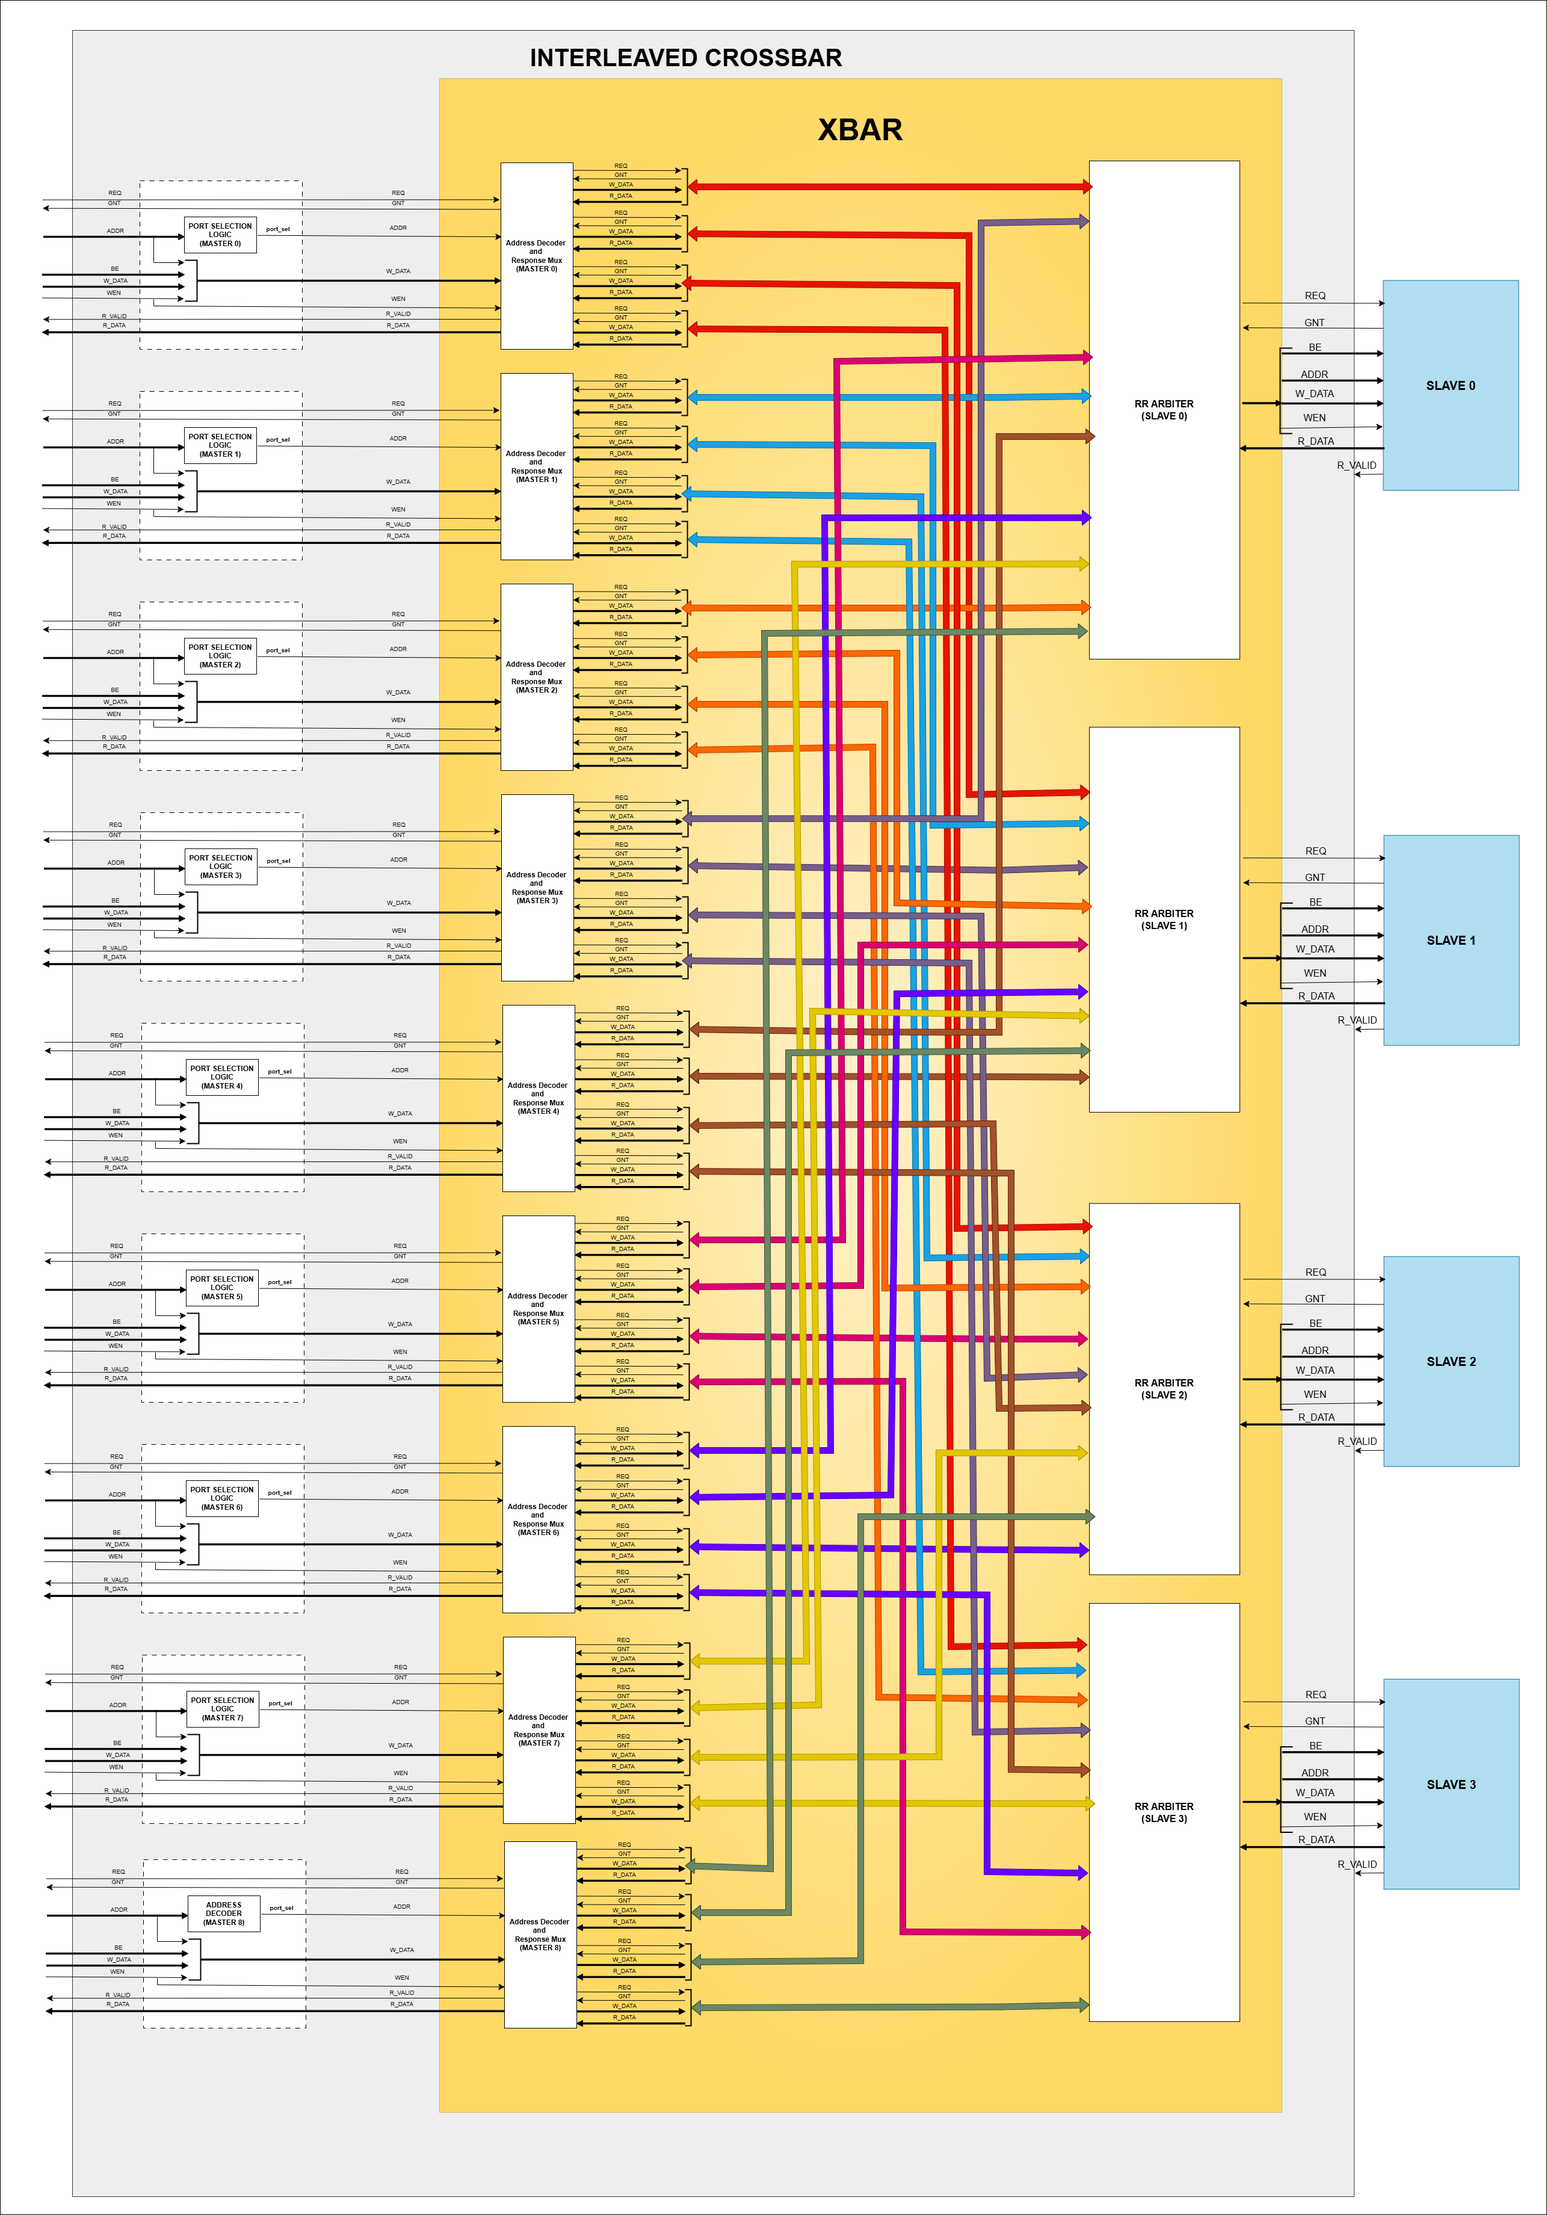
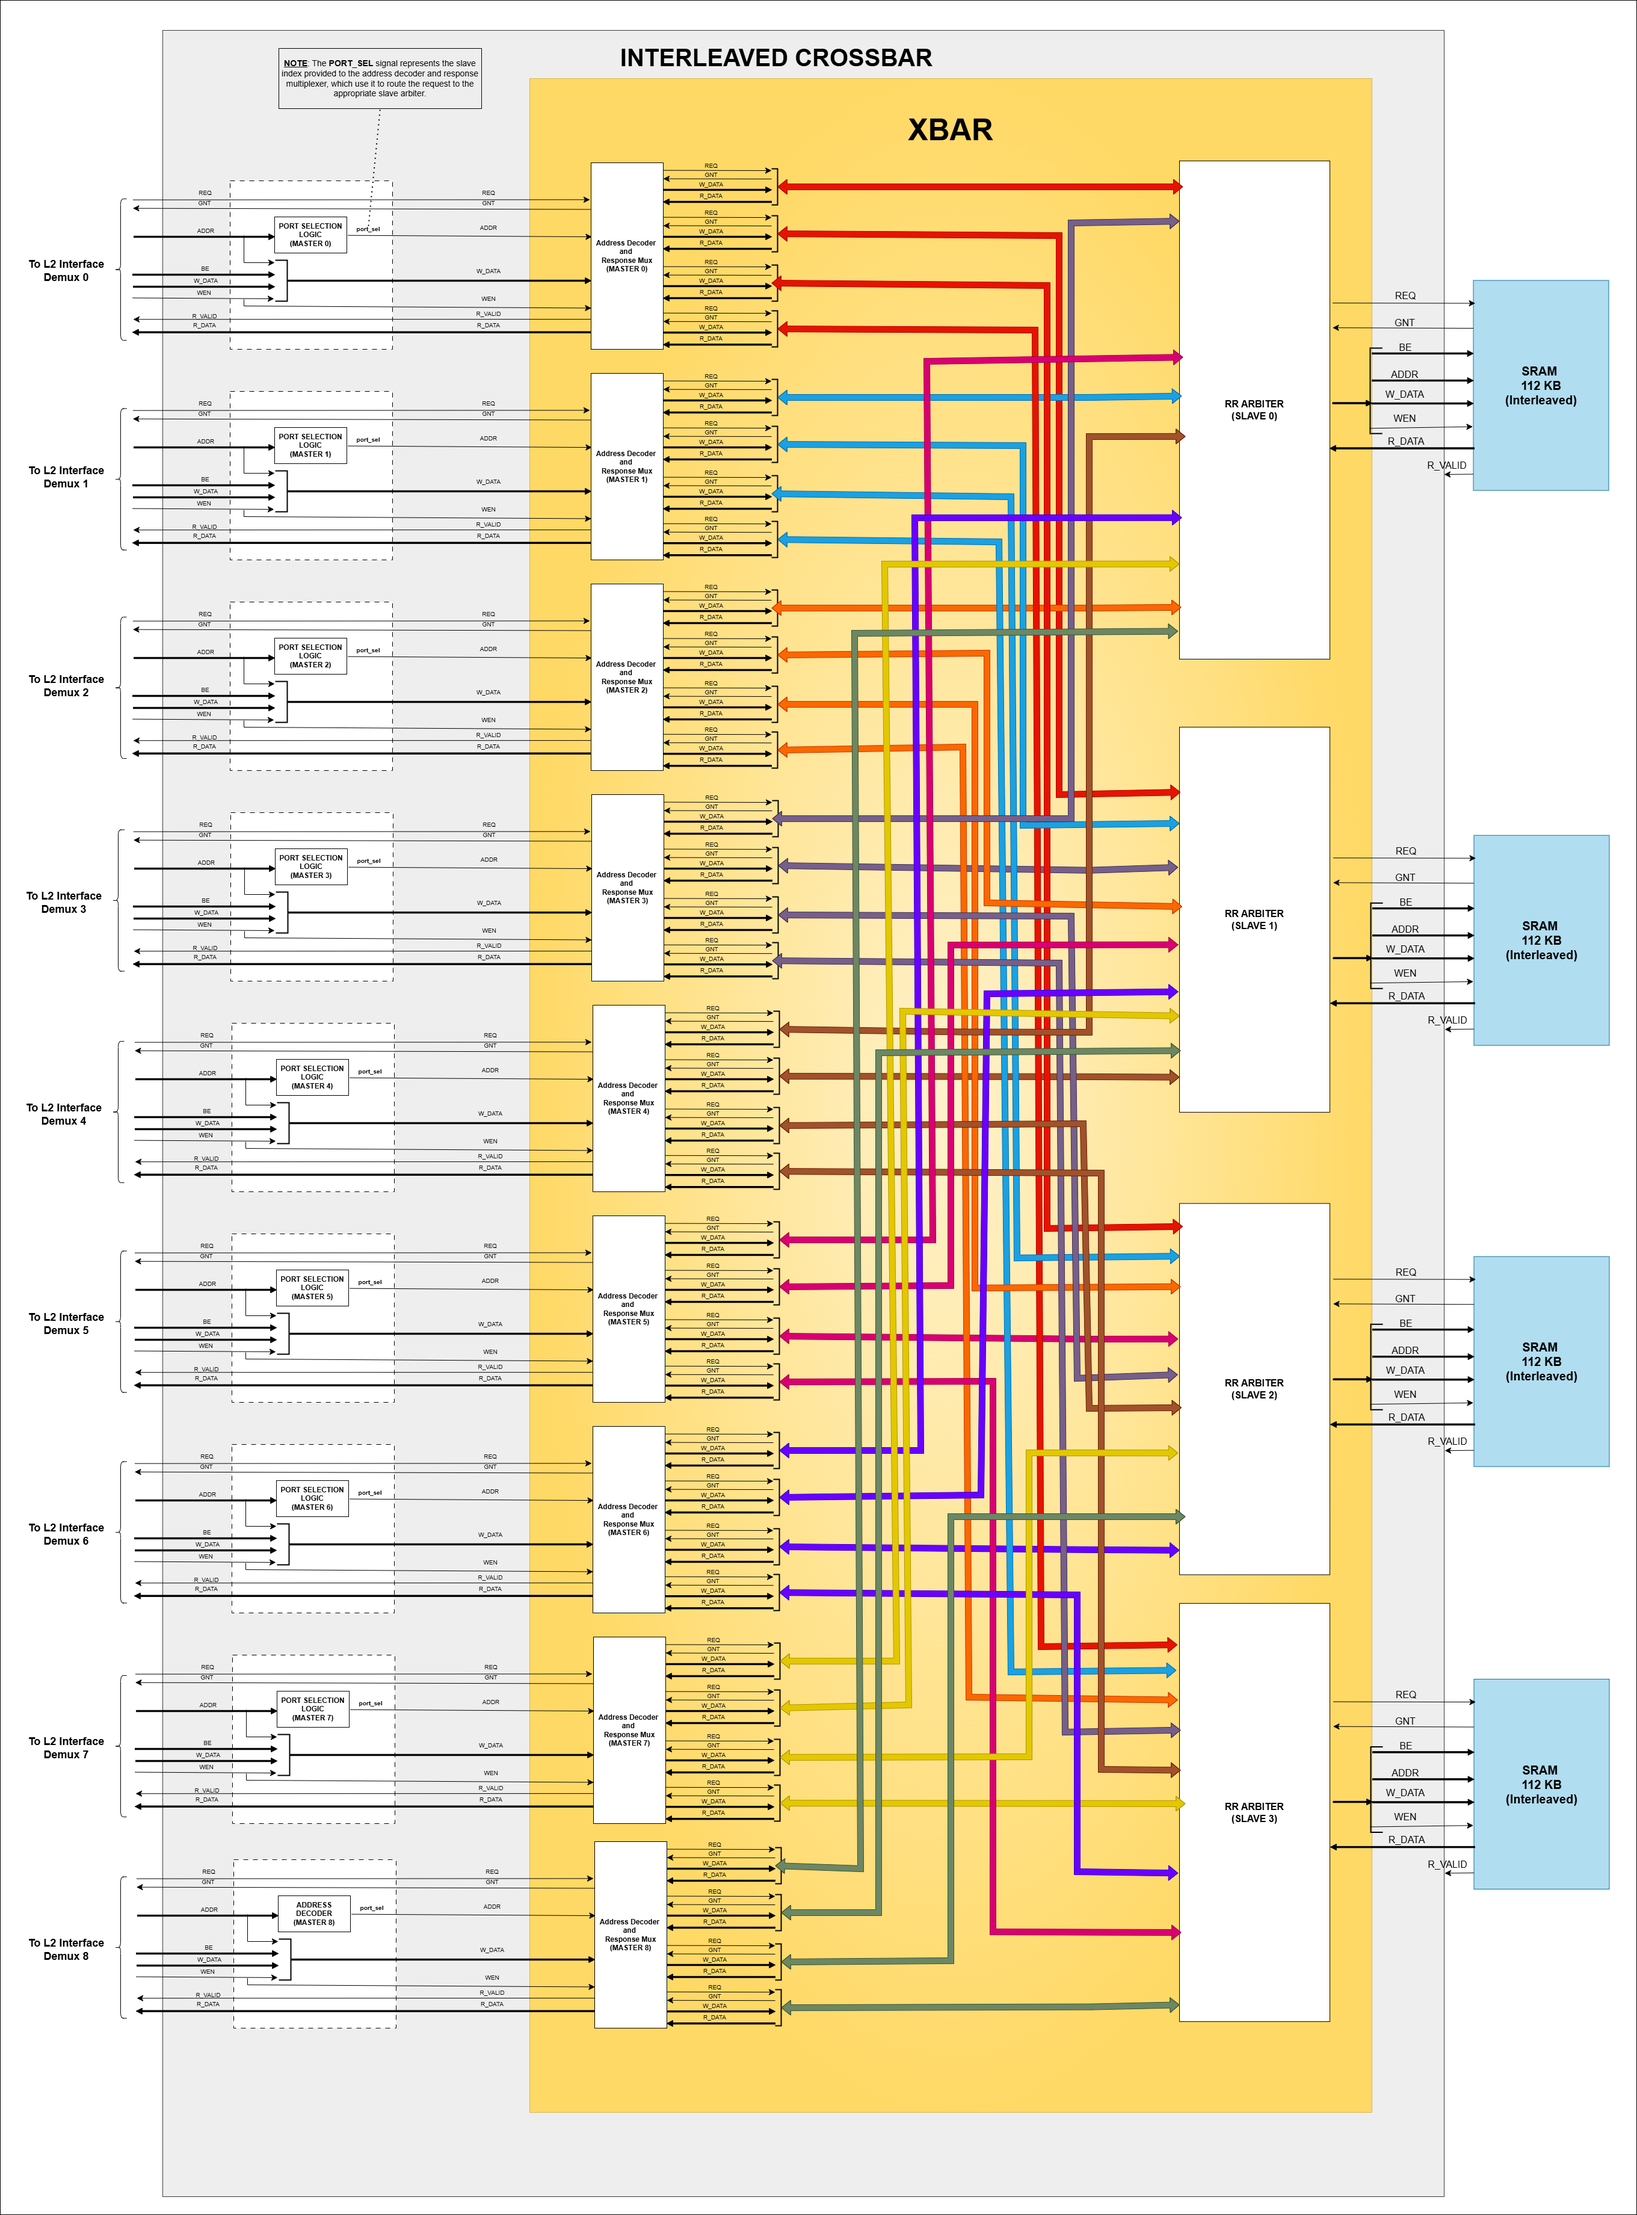
Added AXI bridge description and few other updates

diff --git a/docs/doc-src/tcdm_interconnect.rst b/docs/doc-src/tcdm_interconnect.rst
@@ -21,21 +21,25 @@ Features
    - Full Crossbar
    - Clos network
    - Butterfly
+- Supports a 32-bit address width, 32-bit data width, and 32-bit byte enable (BE) width
 
 
 For more details about TCDM interconnect refer `here <https://github.com/openhwgroup/core-v-mcu/blob/master/rtl/tcdm_interconnect/README.md>`_.
 
-Block Diagram
-~~~~~~~~~~~~~~
+Block Architecture
+~~~~~~~~~~~~~~~~~~
+The figure below shows a high-level block diagram of the TCDM Interconnect. The main components include the L2 Interconnect Demux, Contiguous Crossbar, Interleaved Crossbar, and AXI Bridge.
+The L2 Interconnect Demux identifies the target slave region and routes the request to either the appropriate Crossbar or the AXI Bridge. Internally, both the Crossbars and the AXI Bridge use 
+address decoders and arbiters to direct requests to the correct slave.
 
-.. figure:: ../images/TCDM_block_diagram.png
+.. figure:: ../images/TCDM_Interconnect_block_diagram.png
    :name: TCDM_Interconnect_block_diagram
    :align: center
    :alt: 
 
    **TCDM Interconnect block diagram**
 
-It contains 9 master ports and 9 slave ports.
+The TCDM interconnect supports 9 master ports and 9 slave ports
    
 **Masters:** 
 
@@ -56,9 +60,11 @@ Master-Slave Communication via TCDM Demux
 ^^^^^^^^^^^^^^^^^^^^^^^^^^^^^^^^^^^^^^^^^
 The uDMA SS, eFPGA, and Core Complex masters connect to the TCDM Demux, which is responsible for routing requests to the correct slave. The slaves fall into three categories based on address regions:
 
-- AXI Region : For APB peripherals (address range: 0x1A100000 to 0x1A300000)
-- Contiguous Slaves : Includes L2 private memory banks (core memory), Boot ROM, and eFPGA APBT1
-- Interleaved Slaves : Mapped to address range 0x1C010000 to 0x1C090000
+- AXI Region : Connects to APB peripheral interconnect to access APB Peripherals
+- Contiguous Slaves : Includes Non-interleaved memory regions such as L2 private memory banks (SRAM Bank0 - 32KB, SRAM Bank1 - 32KB), Boot ROM and eFPGA APB Target
+- Interleaved Slaves : Contains Interleaved memory banks, 4*112KB SRAM blocks
+
+Refer to `Memory Map <https://github.com/openhwgroup/core-v-mcu/blob/master/docs/doc-src/mmap.rst>`_ for address ranges of the each slave.
 
 The TCDM Demux integrates an address decoder that inspects each incoming request address and matches it against the configured address ranges for all slave regions. When the match is found, the module outputs a slave_id, which is used
 as a select line to route the request to the appropriate slave region — AXI, contiguous, or interleaved.
@@ -79,6 +85,7 @@ The contiguous crossbar consists of two primary components:
 2. Single Xbar Module 
 
 Each address decoder receives the ADDR from TCDM demux and checks it against the address ranges of contiguous slaves address. if a match is found, port_sel is generated and sent to the Xbar module's ADDR input.
+This port sel signal represents the slave index provided to the Xbar to route the request to the appropriate slave arbiter within the Xbar.
 Meanwhile the actual request (ADDR, WEN, WDATA and BE) is aggregated into single bundle and forwarded to Xbar's WDATA input.
 
 The Xbar is a multi-master and multi-slave module that includes:
@@ -103,6 +110,7 @@ Interaction with Interleaved Crossbar
 
 The interleaved crossbar follows a different mechanism for selecting the target slave. Unlike the contiguous crossbar, it does not use address decoders based on full address ranges.
 Instead, it uses specific address bits (often referred to as bank bits) to determine the destination memory bank. These bits are extracted from the request address and forwarded to the Xbar's ADDR input.
+These bits represents the slave index provided to the Xbar to route the request to the appropriate slave arbiter within the Xbar.
 Each master aggregates its request (ADDR, WEN, WDATA, and BE) into a bundled format and sends it to the crossbar's DATA input.
 
 Internally, the interleaved crossbar also contains a Xbar module that includes:
@@ -115,9 +123,24 @@ Once master is granted access, the aggregated request is disaggregated into its 
 
 When a slave detects the REQ signal, it immediately asserts the GNT signal in the same clock cycle to acknowledge the request. For read operations, the r_data and valid signals are updated in the next clock cycle.
 
+Interaction with AXI Bridge
+^^^^^^^^^^^^^^^^^^^^^^^^^^^
+
+The AXI bridge receives incoming requests and internally routes them to the lint_2_axi module. This module translates these requests into standard AXI-compatible transactions.
+The translated AXI transactions are then forwarded to an AXI crossbar (axi_xbar) for further decoding and routing.
+
+The AXI crossbar is designed to efficiently route transactions from multiple masters to multiple slaves. For each master, the crossbar includes the following dedicated components:
+- **Write Address Decoder**: Compares the write transaction address (AWADDR) against the address ranges of all connected slaves. Upon finding a match, it generates a selection signal for the corresponding slave and forwards the transaction to the AXI Demux; otherwise, the request is redirected to the error slave, which generates an error response.
+- **Read Address Decoder**: Functions similarly to the write decoder, but operates on read transaction addresses (ARADDR). If a valid slave match is found, the selection signal is generated and the request is passed to the AXI Demux; otherwise, the request is redirected to the error slave, which generates an error response
+- **AXI Demultiplexer (AXI Demux)**: Receives read/write transactions and routes them to one of several slaves based on the selection signals provided by the address decoders. It ensures that transactions are correctly distributed across the slaves.
+- **AXI Error Slave (axi_err_slv)**: Handles unmatched or invalid addresses. If no slave address matches the decoded address, the transaction is routed to the error slave, which generates an appropriate error response.
+
+The AXI Demux handles the actual routing of transactions to the correct slave based on the decoder's selection signals received from Write/Read Address decoder. For write transactions, the selection is stored in a FIFO to ensure data consistency throughout burst transfers.
+Read (R) and write response (B) channels gather responses from all slaves. A round-robin arbiter manages response arbitration, ensuring proper ID tracking in response delivery to the master.
+
 System Architecture
 ~~~~~~~~~~~~~~~~~~~
-.. figure:: ../images/TCDM_Interconnect_block_diagram.png
+.. figure:: ../images/TCDM_Interconnect_block_diagram_system_level.png
    :name: TCDM_Interconnect_connection_diagram
    :align: center
    :alt: 
